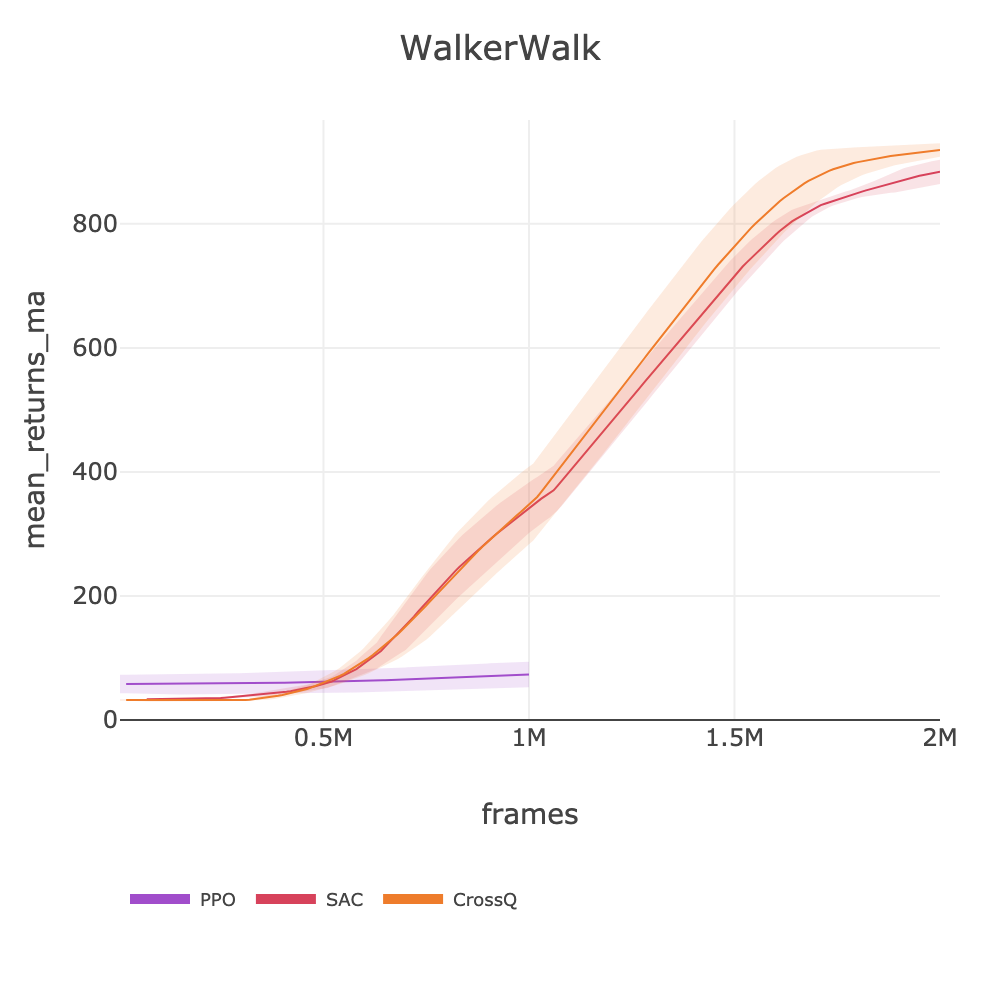
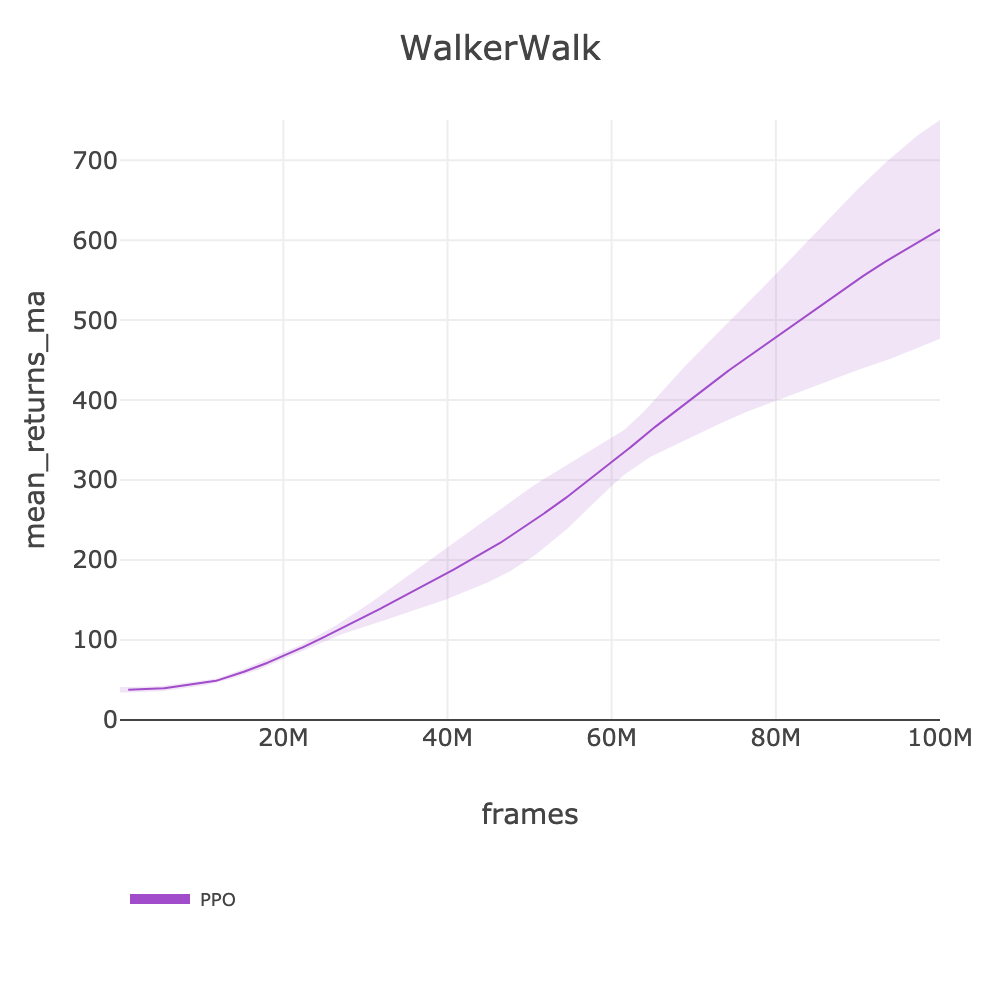
feat: intake WalkerWalk 613.47 (100M frames)

diff --git a/docs/BENCHMARKS.md b/docs/BENCHMARKS.md
@@ -930,7 +930,7 @@ source .env && uv run slm-lab run-remote --gpu \
 | playground/HopperHop | PPO | 🔄 | - | ppo_playground | - | 300 | - | - | - |
 | | CrossQ | 🔄 | - | crossq_playground | - | | - | - | - |
 | | SAC | 🔄 | - | sac_playground_hard | - | | - | - | - |
-| playground/HopperStand | PPO | 🔄 | - | ppo_playground | - | 650 | - | - | - |
+| playground/HopperStand | PPO | ✅ | 2.87 | ppo_playground | [ppo_playground_hopperstand_2026_03_11_095253](https://huggingface.co/datasets/SLM-Lab/benchmark-dev/tree/main/data/ppo_playground_hopperstand_2026_03_11_095253) | 650 | 10750 | 100M | 2h 34m |
 | | CrossQ | 🔄 | - | crossq_playground | - | | - | - | - |
 | | SAC | 🔄 | - | sac_playground | - | | - | - | - |
 | playground/HumanoidRun | PPO | 🔄 | - | ppo_playground | - | 150 | - | - | - |
@@ -964,7 +964,7 @@ source .env && uv run slm-lab run-remote --gpu \
 | | PPO | 🔄 | - | ppo_playground_loco | - | | - | - | - |
 | | CrossQ | 🔄 | - | crossq_playground | - | | - | - | - |
 | | SAC | 🔄 | - | sac_playground | - | | - | - | - |
-| playground/WalkerWalk | PPO | 🔄 | - | ppo_playground | - | 900 | - | - | - |
+| playground/WalkerWalk | PPO | ✅ | 613.47 | ppo_playground | [ppo_playground_walkerwalk_2026_03_11_095325](https://huggingface.co/datasets/SLM-Lab/benchmark-dev/tree/main/data/ppo_playground_walkerwalk_2026_03_11_095325) | 900 | 10730 | 100M | 2h 35m |
 | | CrossQ | 🔄 | - | crossq_playground | - | | - | - | - |
 | | SAC | 🔄 | - | sac_playground | - | | - | - | - |
 
